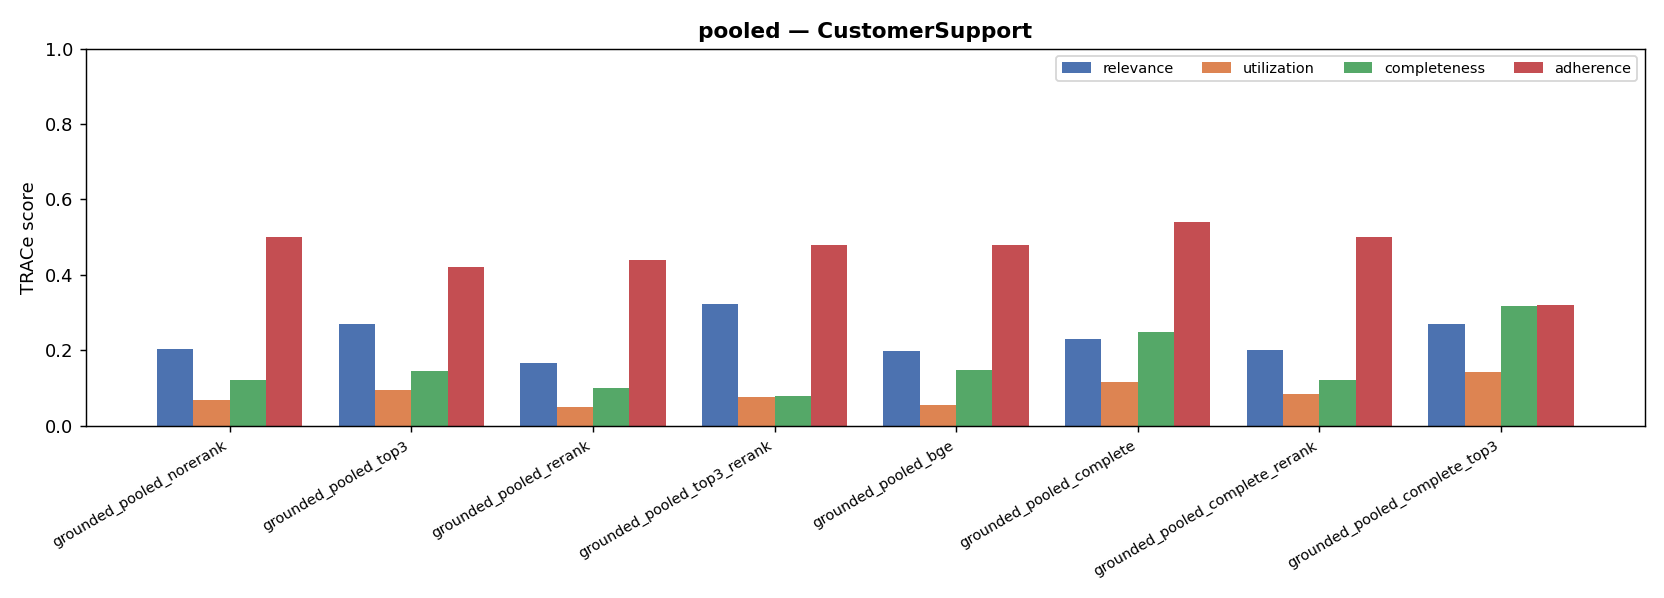
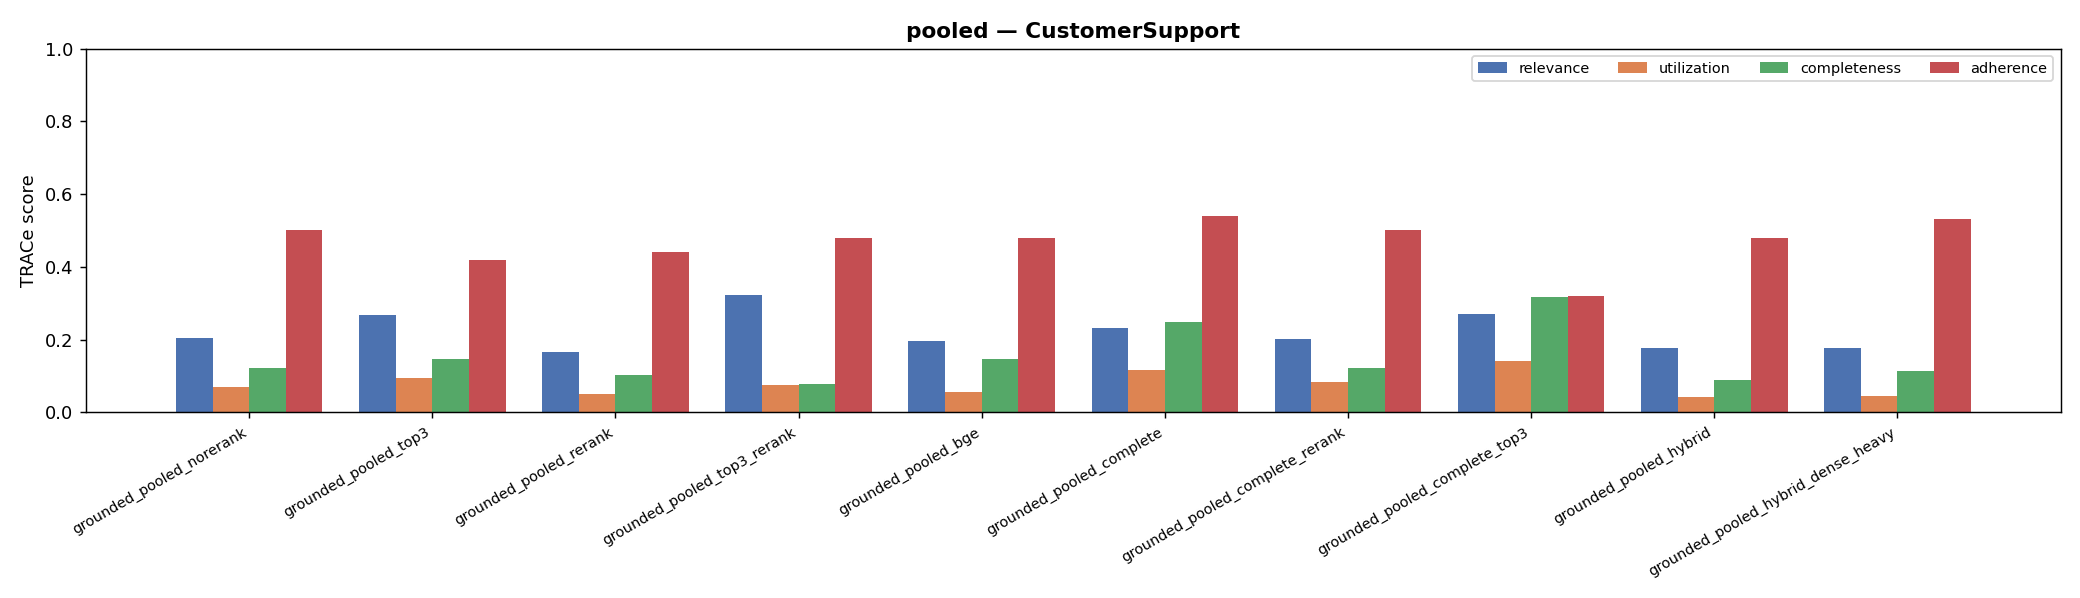
Pooled Exp 6: hybrid retrieval — a decisive negative result (recall up, TRACe down)
Ran the hybrid retriever (dense + BM25 via RRF) on the pooled corpus under two
weightings, each a one-change comparison: plain RRF (1/1) and dense-leaning (0.7/0.3).
N=50, GenKnowledge + CustomerSupport, 3B generator.

Result: hybrid does NOT beat plain dense under either weighting. Plain RRF hurt
everything (GenKnowledge relevance -0.076); dense-leaning clawed back toward baseline
(0.228 -> 0.280) but never past dense's 0.304. The lone positive cell (CustomerSupport
adherence 0.531 vs dense 0.500) is within N=50 noise.

The instructive part — recall != TRACe-relevance: a diagnostic found BM25-alone
recalled MORE gold than dense (2.83 vs 2.25 in the top-5) and hybrid the most (2.92),
so retrieval recall went UP — yet TRACe relevance dropped. Reason: relevance =
relevant-sentences / total-retrieved-sentences (a precision-of-text metric), and BM25
favors longer keyword-dense chunks (median 390 -> 401 words) that inflate the
denominator. Hybrid delivered exactly the recall gain the "Best Practices" paper
promises and still hurt our metric — the cleanest demonstration that a paper-endorsed
retrieval lever doesn't transfer to a different metric. Closes the retrieval-lever line
with evidence.

Retrieval levers now exhausted (embedder/reranker/hybrid all fail to beat dense for
TRACe). Per-domain bests stand: GenKnowledge -> complete+top3; CustomerSupport ->
plain complete. Next lever = bigger generator.
[…]

diff --git a/docs/POOLED_EXPERIMENTS.md b/docs/POOLED_EXPERIMENTS.md
@@ -309,17 +309,71 @@ CustomerSupport stays stubborn across the whole track: reranker (Exp 3), top3 (E
 now complete+rerank (5A) and complete+top3 (5B, adherence) all failed it. Only the plain
 generation-side `grounded_complete` (4B) helps it. This is a real, repeated domain-difficulty finding.
 
-### Pooled track — candidate next levers
-1. ✅ Exp 4A BGE — null. ✅ Exp 4B grounded_complete — the prompt winner.
-2. ✅ Exp 5A complete+rerank — averaged (synergy didn't transfer). ✅ Exp 5B complete+top3 — GenK win, CustS adherence loss.
-3. **Config-only levers are largely exhausted on 3B for these 2 domains.** Remaining low-odds config: extractive prompt in pooled.
-4. **Next REAL lever = hybrid retrieval (BM25 + RRF)** — the one major retrieval component never built; the
-   "Best Practices" paper's top retrieval pick; the most plausible structural fix for CustomerSupport's
-   stubborn retrieval. This is a *build*, not a config.
-5. **Then** bigger generator on the per-domain winners (only after config/retrieval levers are spent — user's order).
+---
+
+## Pooled Exp 6 — Hybrid retrieval (dense + BM25 via RRF): a decisive NEGATIVE result
+
+**Question:** every config lever failed on CustomerSupport; does *hybrid retrieval* (dense + BM25, the
+"Best Practices" paper's top retrieval pick) finally crack it? We built BM25 + a weighted-RRF hybrid
+(see `EXPERIMENTS`/code) and ran two weightings — one change each off the dense baseline / each other.
+N=50. Sources: `..._hybrid.csv` (equal RRF) + `..._hybrid_dense_heavy.csv` (0.7/0.3).
+
+### Three-way: dense → hybrid (1/1) → hybrid (0.7/0.3 dense-leaning)
+
+**GenKnowledge:**
+
+| metric | dense | hybrid 1/1 | hybrid .7/.3 |
+|---|---|---|---|
+| relevance | **0.304** | 0.228 | 0.280 |
+| utilization | **0.128** | 0.082 | 0.089 |
+| completeness | **0.362** | 0.306 | 0.300 |
+| adherence | **0.540** | 0.531 | 0.449 |
+
+**CustomerSupport:**
+
+| metric | dense | hybrid 1/1 | hybrid .7/.3 |
+|---|---|---|---|
+| relevance | **0.205** | 0.177 | 0.178 |
+| utilization | **0.069** | 0.042 | 0.045 |
+| completeness | **0.121** | 0.090 | 0.112 |
+| adherence | 0.500 | 0.480 | **0.531** |
+
+### Findings + reasoning
+
+**F1 — Hybrid does NOT beat dense, under EITHER weighting.** Plain RRF (1/1) hurt everything
+(relevance −0.076 GenK / −0.028 CustS). Dense-leaning (0.7/0.3) clawed *back toward* baseline
+(GenK relevance 0.228→0.280) — confirming BM25 was diluting — but never *past* it; the best case is
+"≈ dense." The lone positive cell is CustomerSupport adherence 0.531 (vs dense 0.500), but it's
+±a couple of answers at N=50 (and that cell scored 49/50), so it's within noise.
+
+**F2 — The instructive part: BM25 RAISED recall, yet TRACe DROPPED (recall ≠ TRACe-relevance).** A
+diagnostic on CustomerSupport found BM25-alone recalled *more* gold chunks in the top-5 than
+dense-alone (2.83 vs 2.25), and hybrid the most (2.92) — retrieval recall went UP. But our **relevance
+= relevant-sentences / total-retrieved-sentences** is a precision-of-text metric, not recall. BM25
+favors longer, keyword-dense chunks (median retrieved length 390→401 words), which inflates the
+denominator: more gold present, spread over more total text → the relevant *fraction* falls. (The
+length effect is small ~3% so it only partially explains the −0.076; the rest is BM25 surfacing
+lexically-matched-but-not-judged-relevant chunks + N=50 noise — not fully attributable, stated honestly.)
+
+**F3 — Why this is a valuable negative result.** Hybrid delivered exactly what the paper promises
+(higher recall) and still hurt *our* metric. The paper recommends hybrid because it optimizes
+recall/nDCG; TRACe relevance measures something different. This is the cleanest demonstration in the
+project that **a paper-endorsed retrieval lever does not transfer to a precision-of-retrieved-text
+metric** — closes the retrieval-lever line with evidence, not a hunch.
+
+### Pooled track — status + next
+1. ✅ Exp 4A BGE null · ✅ 4B grounded_complete (prompt winner) · ✅ 5A complete+rerank (averaged) ·
+   ✅ 5B complete+top3 (GenK win) · ✅ 6 hybrid (negative — recall up, TRACe down, both weightings).
+2. **Retrieval levers are now exhausted** (embedder swap, reranker, hybrid all fail to beat dense for TRACe).
+   Config levers exhausted too. The per-domain bests stand: GenKnowledge → `complete+top3`; CustomerSupport
+   → plain `complete`. CustomerSupport resisted EVERYTHING except generation-side `grounded_complete`.
+3. **Next = bigger generator** (`llama3.1:8b`/`gemma2:9b`) on the per-domain winners — the remaining lever now
+   that config + retrieval are spent (user's order: small-generator levers first, then scale up). Low-odds
+   leftover: extractive prompt in pooled.
 
 ---
 
 *Data sources: `results/pooled/ragbench_matrix_n50_pooled.csv` (Exp 1–3),
 `..._bge.csv` + `..._complete.csv` (Exp 4), `..._complete_rerank.csv` + `..._complete_top3.csv` (Exp 5),
-`results/pooled/figures/` (charts). Per-example track + reference comparison live in `EXPERIMENTS.md`.*
+`..._hybrid.csv` + `..._hybrid_dense_heavy.csv` (Exp 6), `results/pooled/figures/` (charts).
+Per-example track + reference comparison live in `EXPERIMENTS.md`.*